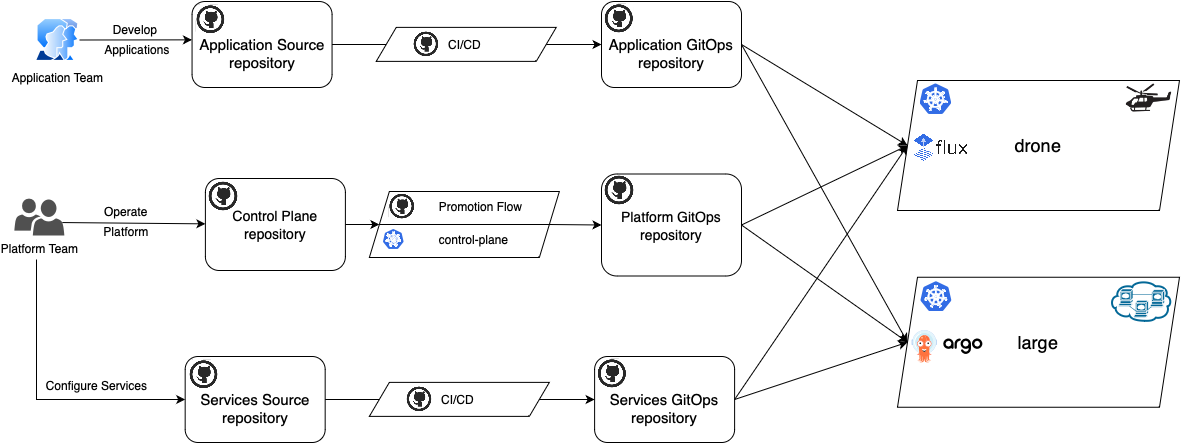
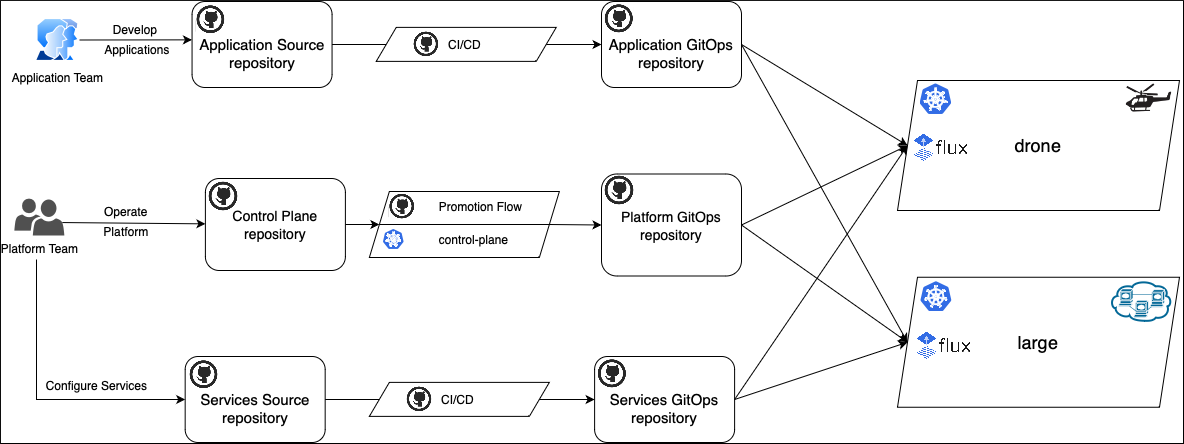
remove argocd

diff --git a/articles/azure-arc/kubernetes/workload-management.md b/articles/azure-arc/kubernetes/workload-management.md
@@ -51,7 +51,7 @@ Created repositories:
 Created AKS clusters in kalypso-rg resource group:
   - control-plane
   - drone (Flux based workload cluster)
-  - large (ArgoCD based workload cluster)
+  - large (Flux based workload cluster)
 ---------------------------------  
 ```
 
@@ -84,7 +84,7 @@ The script created the following Azure Kubernetes Service (AKS) clusters:
 
 - `control-plane` - This cluster is a management cluster that doesn't run any workloads. The `control-plane` cluster hosts [Kalypso Scheduler](https://github.com/microsoft/kalypso-scheduler) operator that transforms high level abstractions from the [Control Plane](https://github.com/microsoft/kalypso-control-plane) repository to the raw Kubernetes manifests in the [Platform GitOps](https://github.com/microsoft/kalypso-gitops) repository.
 - `drone` - A sample workload cluster. This cluster has the [GitOps extension](conceptual-gitops-flux2.md) installed and it uses `Flux` to reconcile manifests from the [Platform GitOps](https://github.com/microsoft/kalypso-gitops) repository. For this sample, the `drone` cluster can represent an Azure Arc-enabled cluster or an AKS cluster with the Flux/GitOps extension.
-- `large` - A sample workload cluster. This cluster has `ArgoCD` installed on it to reconcile manifests from the [Platform GitOps](https://github.com/microsoft/kalypso-gitops) repository.
+- `large` - A sample workload cluster. This cluster has the [GitOps extension](conceptual-gitops-flux2.md) installed and it uses `Flux` to reconcile manifests from the [Platform GitOps](https://github.com/microsoft/kalypso-gitops) repository.
 
 ### Explore Control Plane
 
@@ -96,7 +96,7 @@ The `main` branch:
 |------|-----------|
 |.github/workflows| Contains GitHub workflows that implement the promotional flow.|
 |.environments| Contains a list of environments with pointers to the branches with the environment configurations.|
-|templates| Contains manifest templates for various reconcilers (for example, Flux and ArgoCD) and a template for the workload namespace.| 
+|templates| Contains manifest templates for various reconcilers and a template for the workload namespace.| 
 |workloads| Contains a list of onboarded applications and services with pointers to the corresponding GitOps repositories.|  
 
 The `dev` and `stage` branches:
@@ -335,7 +335,7 @@ spec:
 ```
 
 > [!NOTE]
-> The `control plane` defines that the `drone` cluster type uses `Flux` to reconcile manifests from the application GitOps repositories. The `large` cluster type, on the other hand, reconciles manifests with `ArgoCD`. Therefore `reconciler.yaml` for the `performance-test` deployment target will look differently and contain `ArgoCD` resources.
+> The `control plane` defines that the `drone` cluster type uses `Flux` to reconcile manifests from the application GitOps repositories. Therefore `reconciler.yaml` file contains `GitRepository` and `Kustomization` resources.
 
 ### Promote application to Stage
 
@@ -458,9 +458,6 @@ Run the following command for the `large` cluster and open `localhost:8002` in y
 kubectl port-forward svc/hello-world-service -n stage-kaizen-app-team-hello-world-app-uat-test 8002:8000 --context=large
 ```
 
-> [!NOTE]
-> It may take up to three minutes to reconcile the changes from the application GitOps repository on the `large` cluster. 
-
 The application instance on the `large` cluster shows the following greeting page:
 
  :::image type="content" source="media/workload-management/stage-greeting-page.png" alt-text="Screenshot showing the greeting page on stage.":::
@@ -502,26 +499,7 @@ In a few seconds, a new PR to the `stage` branch in the `Platform GitOps` reposi
 
 Approve the PR and merge it.
 
-The `large` cluster is handled by ArgoCD, which, by default, is configured to reconcile every three minutes. This cluster doesn't report its compliance state to Azure like the clusters such as `drone` that have the [GitOps extension](conceptual-gitops-flux2.md). However, you can still monitor the reconciliation state on the cluster with ArgoCD UI. 
-
-To access the ArgoCD UI on the `large` cluster, run the following command:
-
-```bash
-# Get ArgoCD username and password
-echo "ArgoCD username: admin, password: $(kubectl -n argocd get secret argocd-initial-admin-secret -o jsonpath="{.data.password}" --context large| base64 -d)"
-# output:
-# ArgoCD username: admin, password: eCllTELZdIZfApPL
-
-kubectl port-forward svc/argocd-server 8080:80 -n argocd --context large
-```
-
-Next, open `localhost:8080` in your browser and provide the username and password printed by the script. You'll see a web page similar to this one:
-
- :::image type="content" source="media/workload-management/argocd-ui.png" alt-text="Screenshot showing the Argo CD user interface web page." lightbox="media/workload-management/argocd-ui.png":::
-
-Select the `stage` tile to see more details on the reconciliation state from the `stage` branch to this cluster. You can select the `SYNC` buttons to force the reconciliation and speed up the process.
-
-Once the new configuration has arrived to the cluster, check the `uat-test` application instance at `localhost:8002` after 
+Once the new configuration has arrived to the `large` cluster, check the `uat-test` application instance at `localhost:8002` after 
 running the following commands:
 
 ```bash
@@ -552,7 +530,7 @@ metadata:
     region: west-us
     size: small
 spec:
-  reconciler: argocd
+  reconciler: arc-flux
   namespaceService: default
 EOF
 
